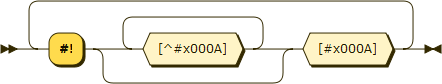
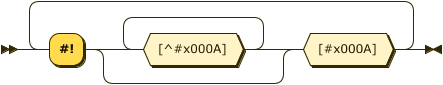
Adjust images to compensate for the change to allow semi-colons & forbid runs of commas

diff --git a/Grammar.md b/Grammar.md
@@ -6,7 +6,7 @@ JinXML has a whitespace insensitive layout, which means that it is a good idea t
 ## Upper-Level Grammar in EBNF, corresponds to parse phase
 ```
 JinXML ::= Element | JSON
-Element ::= StartTag ( Entry* | JinXML* ) EndTag | FusedTag
+Element ::= StartTag ( ( Entry Terminator? )* | ( JinXML Terminator? )* ) EndTag | FusedTag
 StartTag ::= '<' ElementName Attribute* '>'
 EndTag ::= '</' ElementName Attribute* '>'
 FusedTag ::= '<' ElementName Attribute* '/>'
@@ -15,10 +15,11 @@ Attribute ::= FieldPrefix String
 NCName ::= [http://www.w3.org/TR/xml-names/#NT-NCName]
 JSON ::= Reserved | Number | String | Array | Object
 Reserved ::= 'null' | 'true' | 'false'
-Array ::= '[' JinXML*  ']'
-Object ::= '{' Entry* '}'
+Array ::= '[' ( JinXML Terminator? )*  ']'
+Object ::= '{' ( Entry Terminator? )* '}'
 Entry ::= ( NCName | String ) ( ':' | '=' | '+:' | '+=' ) JinXML 
 Entry ::= '&' ( ':' | '=' | '+:' | '+=' ) Element
+Terminator ::= ',' | ';'
 ```
 
 The following side-conditions apply:
@@ -94,7 +95,7 @@ StringQuotedString ::= "'" ([^&>"]|XEscape)* "'"
 XEscape ::= '&' (NamedCharacterReference|'#' [0-9]+|'#x' Hex+|'\' BEscape)';'
 NamedCharacterReference ::= [http://www.w3.org/TR/html5/syntax.html#named-character-references]
 Hex ::= [0-9a-fA-F]
-Discard ::= ( Whitespace | XComment | XOther | JComment | ',' )+
+Discard ::= ( Whitespace | XComment | XOther | JComment )+
 XComment ::= '<!--' ( [^-]* | '-'+ [^->] )* '-'* '-->' 
 XOther ::= '<' [?!] [^>]* '>' 
 JComment ::= LongComment | EoLComment
